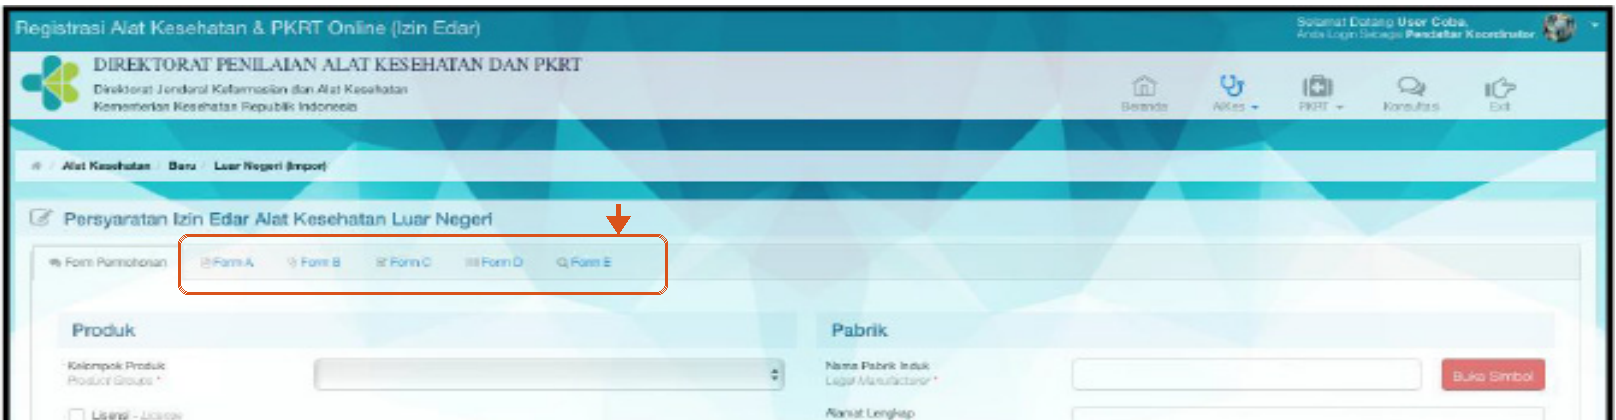
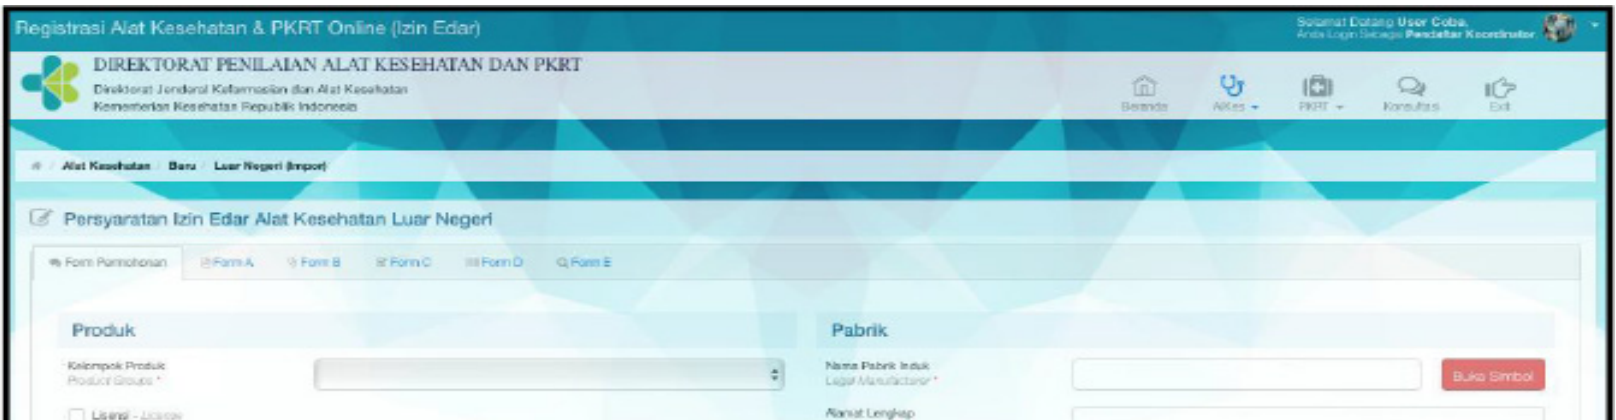
Move Form A-E highlight from baked-in image to live animated CSS overlay
Replaces the PIL-annotated screenshot with the plain crop, and adds a
pulsing highlight box + bouncing arrow drawn live on the page (same
animated-pointer pattern as HowItWorksSection), positioned over the
screenshot with percentage coordinates so they track it at any width.

Changed region(s): [[0.0928, 0.4952, 0.4332, 0.5881], [0.0928, 0.681, 0.4022, 0.7119]]

diff --git a/components/TutorialOverlay.tsx b/components/TutorialOverlay.tsx
@@ -187,15 +187,34 @@ export default function TutorialOverlay() {
 
             {/* Real e-Regalkes screenshot (from Jo, cropped out of the
                 Kemenkes guide PDF — see KEMENKES_SUBMISSION_GUIDE_URL below
-                for the source), with a highlight box + arrow drawn onto the
-                image pointing at the Form A–E tab row, so this reads as "this
-                is what you'll actually see" rather than an abstract mockup. */}
-            <div className="mt-3 overflow-hidden rounded-md border border-border-subtle bg-surface-alt">
+                for the source), plain/unedited. The highlight box + arrow
+                pointing at the Form A–E tab row are drawn live on the page
+                instead of baked into the image — percentage-positioned over
+                it (box: left 11.14%/top 56.19%/30.01%×13.33%; arrow centered
+                at left 38.24%, matching the tab row's pixel position in the
+                1616×420 source image) so they track the screenshot at any
+                display width, and pulse/bounce via the
+                .tutorial-highlight-box / .tutorial-highlight-arrow
+                animations in globals.css (same animated-pointer pattern as
+                HowItWorksSection's arrows). */}
+            <div className="relative mt-3 overflow-hidden rounded-md border border-border-subtle bg-surface-alt">
               <img
                 src="/images/form-a-e-screenshot.png"
                 alt="Tangkapan layar e-Regalkes menunjukkan tab Form A, B, C, D, E"
-                className="w-full"
+                className="block w-full"
               />
+              <div
+                aria-hidden
+                className="tutorial-highlight-box pointer-events-none absolute rounded-md border-2 border-accent"
+                style={{ left: "11.14%", top: "56.19%", width: "30.01%", height: "13.33%" }}
+              />
+              <div
+                aria-hidden
+                className="tutorial-highlight-arrow pointer-events-none absolute text-2xl leading-none text-accent"
+                style={{ left: "38.24%", top: "42%", transform: "translateX(-50%)" }}
+              >
+                ↓
+              </div>
               <p className="px-3 py-2 text-[11px] leading-[16px] text-ink-muted">
                 Tangkapan layar asli dari pedoman Kemenkes — tab Form A–E inilah yang dirujuk
                 badge "Form A/B/C/D/E Regalkes" di checklist ini.

diff --git a/app/globals.css b/app/globals.css
@@ -72,6 +72,44 @@ body > main {
   }
 }
 
+/* Used by the tutorial's "form-explainer" intro step (TutorialOverlay) to
+   point at the Form A–E tab row on Jo's real e-Regalkes screenshot — a
+   pulsing highlight box plus a bouncing arrow, both drawn live on the page
+   (not baked into the image itself), positioned over the screenshot with
+   percentage coordinates so they track it at any display width. */
+@keyframes tutorial-highlight-box {
+  0%,
+  100% {
+    box-shadow: 0 0 0 0 rgba(217, 83, 27, 0.55);
+  }
+  50% {
+    box-shadow: 0 0 0 6px rgba(217, 83, 27, 0);
+  }
+}
+@keyframes tutorial-highlight-arrow {
+  0%,
+  100% {
+    transform: translateY(0);
+    opacity: 0.6;
+  }
+  50% {
+    transform: translateY(6px);
+    opacity: 1;
+  }
+}
+.tutorial-highlight-box {
+  animation: tutorial-highlight-box 1.6s ease-in-out infinite;
+}
+.tutorial-highlight-arrow {
+  animation: tutorial-highlight-arrow 1.1s ease-in-out infinite;
+}
+@media (prefers-reduced-motion: reduce) {
+  .tutorial-highlight-box,
+  .tutorial-highlight-arrow {
+    animation: none;
+  }
+}
+
 /* Print styles used by /checklist/cetak, the PDF export view.
    Visiting that page and using the browser's Print (Save as PDF) gives a
    clean, single-column document with no navigation or interactive chrome. */
